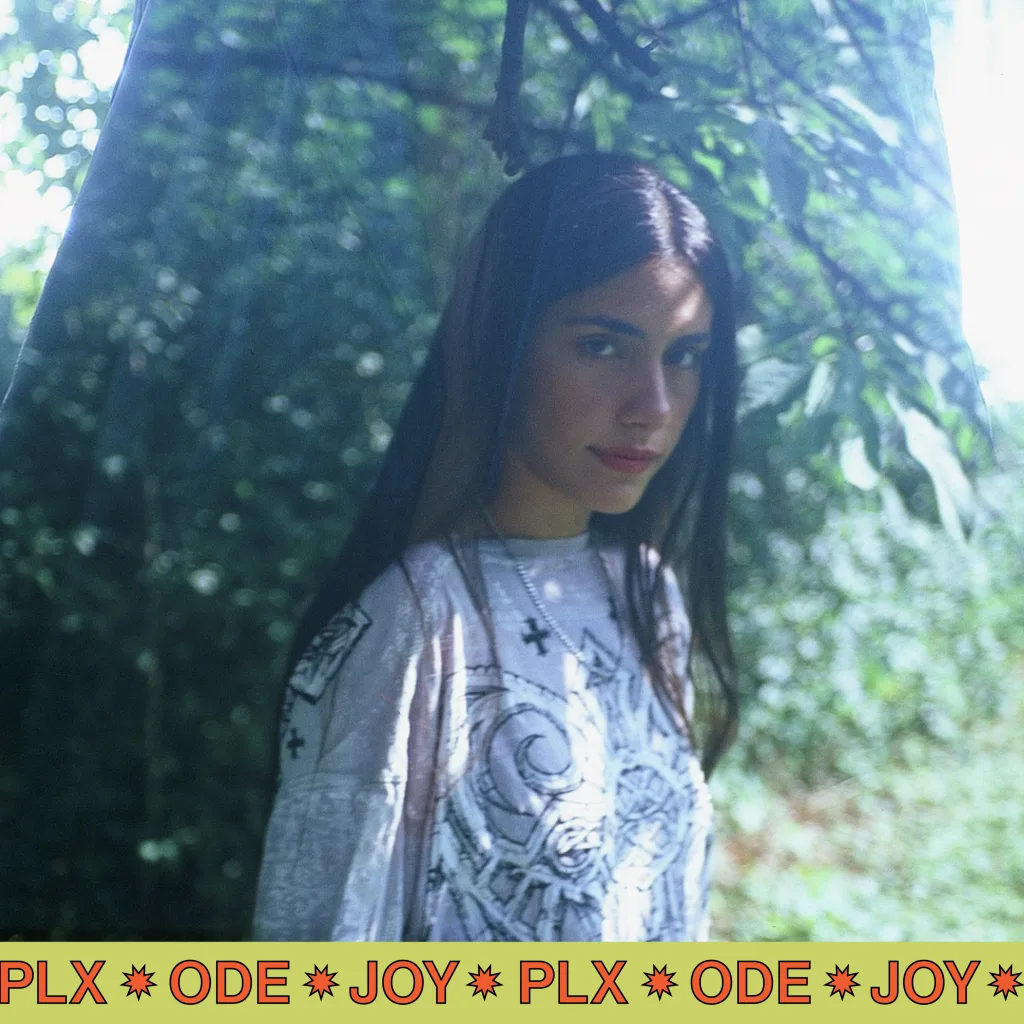
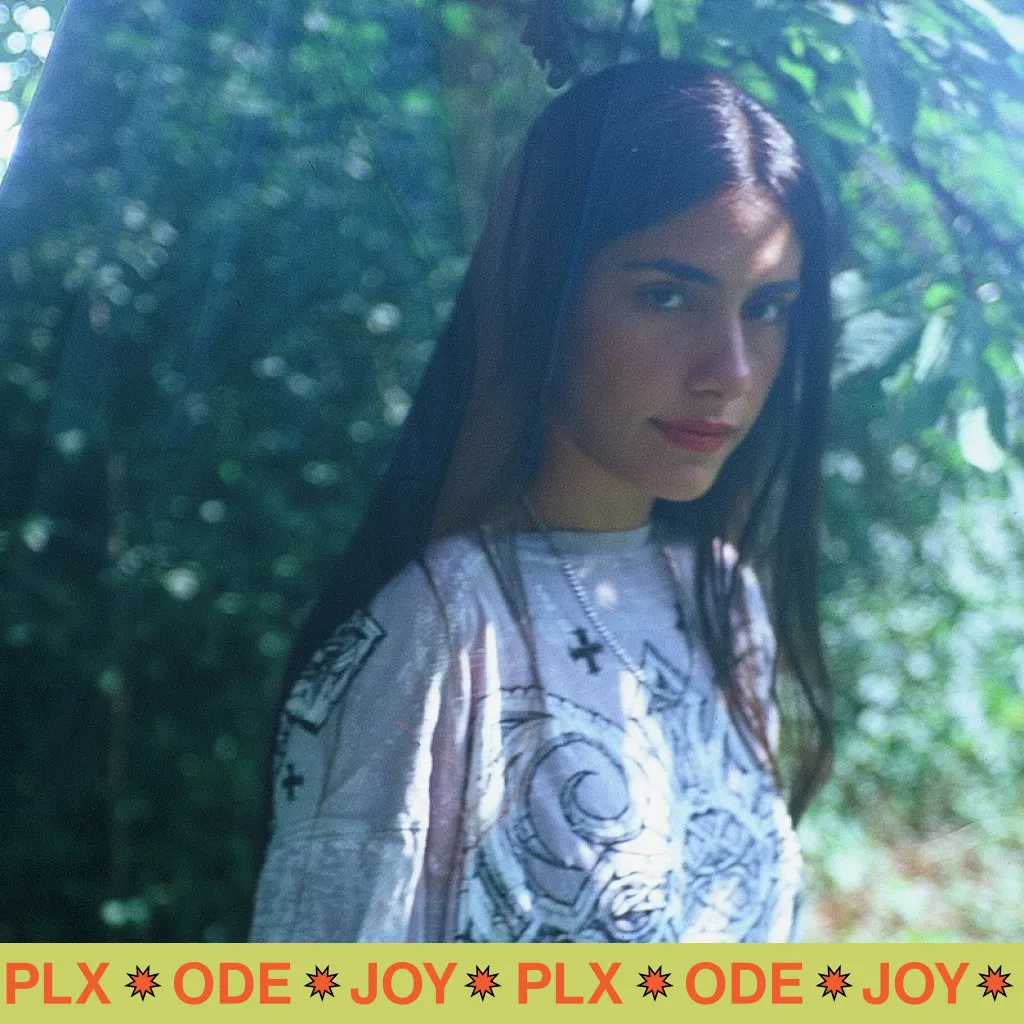
Add 8 new artist images, hide stage floors, lower exposure
- Replace 4 artist images with 8 new PLX ODE JOY artist photos
- Convert all to webp and update IMG_FILES/IMG_CREDITS in cards.js
- Hide platform, transition slab, and lookout meshes by default
- Set tone mapping exposure to 0.45

diff --git a/assets/js/cards.js b/assets/js/cards.js
@@ -9,17 +9,25 @@ import { buildRibbonGeo } from './zones.js';
 // ARC IMAGE CARDS (curved around tower like flags)
 // =====================================================
 export const IMG_FILES = [
-  'plxodejoy-francis.webp',
+  'plxodejoy-snejina_latev.webp',
+  'plxodejoy-patrik_söderstam.webp',
+  'plxodejoy-nils_bergendahl.webp',
+  'plxodejoy-francis_patrick_brady.webp',
+  'plxodejoy-fauna.webp',
+  'plxodejoy-emil_keller_skousen.webp',
   'plxodejoy-dina.webp',
-  'plxodejoy-emil.webp',
-  'plxodejoy-patrik.webp',
+  'plxodejoy-alexandra_karpilovski.webp',
 ];
 
 export const IMG_CREDITS = [
-  { name: 'Francis Patrick Brady', url: 'https://francispatrickbrady.com/', instagram: 'francispatrickbrady' },
-  { name: 'Dina Khashan', url: 'https://soundcloud.com/dinakhashan', instagram: 'dinakhashan' },
-  { name: 'Emil Grillting', url: 'https://grillting.com/', instagram: 'grill_ting' },
+  { name: 'Snejina Latev', url: '', instagram: '' },
   { name: 'Patrik Söderståm', url: 'https://www.showstudio.com/contributors/patrik_soderstam', instagram: 'mixpatriksoderstam' },
+  { name: 'Nils Bergendahl', url: '', instagram: '' },
+  { name: 'Francis Patrick Brady', url: 'https://francispatrickbrady.com/', instagram: 'francispatrickbrady' },
+  { name: 'Fauna', url: '', instagram: '' },
+  { name: 'Emil Keller Skousen', url: '', instagram: '' },
+  { name: 'Dina', url: '', instagram: '' },
+  { name: 'Alexandra Karpilovski', url: '', instagram: '' },
 ];
 
 export const CARD_COUNT = IMG_FILES.length;

diff --git a/assets/js/scaffold.js b/assets/js/scaffold.js
@@ -227,6 +227,7 @@ export const scaffoldReady = (async () => {
           const p = box(cellCx(bi), y, cellCz(bj), BAY_W, PLAT_H, BAY_D, floorDm);
           p.castShadow = false;
           p.userData = { componentType: 'platform', stage: stage.name };
+          p.visible = false;
           scaffold.add(p);
           collidables.push(p);
         }
@@ -246,6 +247,7 @@ export const scaffoldReady = (async () => {
       const slab = box(0, y, 0, slabW, slabH, slabD, slabMat);
       slab.castShadow = false;
       slab.userData = { componentType: 'transitionSlab', stage: stage.name };
+      slab.visible = false;
       scaffold.add(slab);
     }
     // Guardrails around each floor perimeter
@@ -442,6 +444,7 @@ export const scaffoldReady = (async () => {
           const p = box(px, baseY, cellCz(bj), BAY_W, PLAT_H, BAY_D, loDeck);
           p.castShadow = false;
           p.userData = { componentType: 'lookout' };
+          p.visible = false;
           scaffold.add(p); collidables.push(p);
         }
       } else {
@@ -450,6 +453,7 @@ export const scaffoldReady = (async () => {
           const p = box(cellCx(bi), baseY, pz, BAY_W, PLAT_H, BAY_D, loDeck);
           p.castShadow = false;
           p.userData = { componentType: 'lookout' };
+          p.visible = false;
           scaffold.add(p); collidables.push(p);
         }
       }

diff --git a/assets/js/scene.js b/assets/js/scene.js
@@ -11,7 +11,7 @@ export const renderer = new THREE.WebGLRenderer({ canvas, antialias: QUALITY.ant
 renderer.setPixelRatio(QUALITY.pixelRatio);
 renderer.setSize(window.innerWidth, window.innerHeight);
 renderer.toneMapping = THREE.ACESFilmicToneMapping;
-renderer.toneMappingExposure = 0.75;
+renderer.toneMappingExposure = 0.45;
 renderer.shadowMap.enabled = QUALITY.shadows;
 renderer.shadowMap.type = THREE.PCFSoftShadowMap;
 renderer.localClippingEnabled = true;
